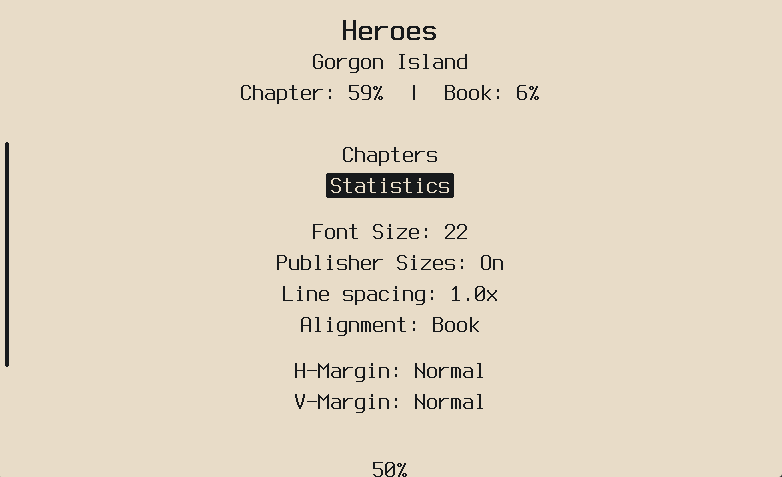
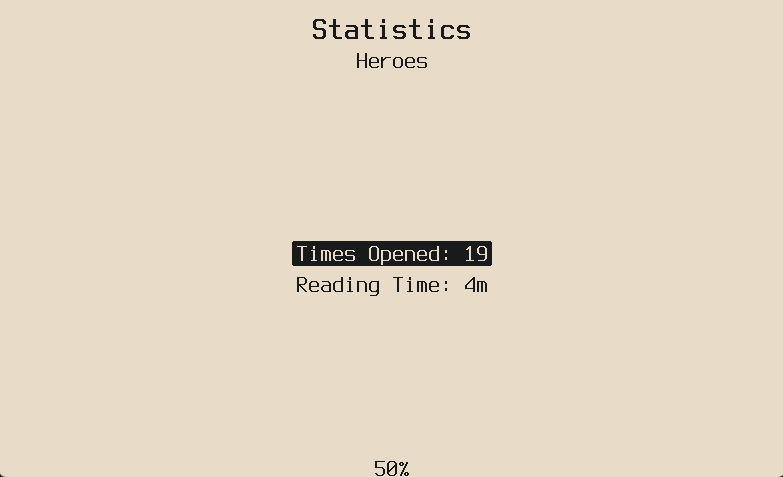
updated read me

diff --git a/README.md b/README.md
@@ -1,47 +1,43 @@
 # Nous
 
-A focused EPUB reader firmware for the Xteink X4 e-ink device — built for people who just want to read.
+Nous is my personal fork of [microreader](https://github.com/CidVonHighwind/microreader/) by [CidVonHighwind](https://github.com/CidVonHighwind) — an open-source EPUB reader firmware for the Xteink X4 e-ink device.
 
-Nous is a personal fork of [microreader](https://github.com/CidVonHighwind/microreader/) by [CidVonHighwind](https://github.com/CidVonHighwind), extended with quality-of-life features that felt missing. The core philosophy stays the same: no Wi-Fi, no sync, no bloat. Only books.
+microreader is great at what it does. This fork adds the things I personally wanted on top of it, without changing what makes it good.
 
 > **v1.0.1** · Based on microreader 2.0-dev · GPL v2
 
 ---
 
-## Features
-
-Everything from microreader, plus:
+## What Nous adds
 
 | Feature | Description |
 |---|---|
-| **Convert All** | Batch-convert every un-converted EPUB in one go from Settings — with per-book progress so you know where it's at |
-| **Converted Indicator** | Optional `*` prefix on book titles that are already converted and ready for instant open |
-| **Reading Stats** | See how many times you've opened a book and how long you've spent reading it — accessible from Reader Options |
-| **Battery Display** | Show battery as an icon, a percentage, or both |
-| **List Alignment** | Set book list and menu alignment to left, center, or right — saved across reboots |
-| **Hide Nav Arrows** | Clean up the UI by hiding the button hint glyphs |
-| **Hidden Books** | Place EPUBs in a `.hidden/` folder at the SD card root — they won't appear in the book list, recents, or auto-reopen on boot. Long-press Back (~3s) on the book list to access them |
-| **Auto-Sleep** | Settings → Auto Sleep. Cycles through 1 / 3 / 5 / 10 / 20 / 30 min / Off. Default: 10 min |
+| **Convert All** | Batch-convert your whole library from Settings — shows per-book progress as it goes |
+| **Converted Indicator** | Optional `*` prefix on book titles that are already converted and ready to open instantly |
+| **Reading Stats** | Per-book open count and total reading time, viewable from Reader Options. Updates live while you're reading |
+| **Battery Display** | Icon, percentage, or both — your call |
+| **List Alignment** | Left, center, or right alignment for the book list and menus |
+| **Hide Nav Arrows** | Toggle the button hint glyphs off if you don't need them |
+| **Hidden Books** | Drop EPUBs into a `.hidden/` folder on the SD card and they won't show up anywhere — not in the list, not in recents, won't reopen on boot. Long-press Back (~3s) on the book list to access them |
+| **Auto-Sleep** | Settings → Auto Sleep. Options: 1 / 3 / 5 / 10 / 20 / 30 min / Off. Defaults to 10 min |
 
-**Features**
+**Screenshots**
 
-| Alignment | Convert All | Stats |
+| Main Menu | Converter | Stats |
 |---|---|---|
-| ![Alignment](images/allign.png) | ![Convert All](images/convertall.png) | ![Stats](images/stats.png) |
+| ![Main Menu](images/mainmenu.png) | ![Converter](images/converter.png) | ![Stats](images/stats.png) |
 
-| Auto Sleep | Hidden Books | Reading Options |
+| Auto Sleep | Hidden Books | Sleep & Align |
 |---|---|---|
-| ![Auto Sleep](images/autosleep.png) | ![Hidden Books](images/hidden.png) | ![Reading Options](images/reading%20options.png) |
+| ![Auto Sleep](images/autosleep.png) | ![Hidden Books](images/hidden.png) | ![Sleep Align](images/sleepalign.png) |
 
-**UI**
-
-| Main Menu | Reader | Chapters |
+| Reader | Main Menu (Portrait) | Reader (Portrait) |
 |---|---|---|
-| ![Main Menu](images/main%20menu.png) | ![Reader](images/reader.png) | ![Chapters](images/chapters.png) |
+| ![Reader](images/reader.png) | ![Main Menu Portrait](images/mainmenuportrait.png) | ![Reader Portrait](images/readerportrait.png) |
 
-| Reader (Landscape) | Settings |
-|---|---|
-| ![Reader Landscape](images/reader%20rotated.png) | ![Settings](images/settings.png) |
+| Settings |
+|---|
+| ![Settings](images/settingsportrait.png) |
 
 ---
 
@@ -50,17 +46,17 @@ Everything from microreader, plus:
 > [!WARNING]
 > **Requires an unlocked Xteink X4.** Do not flash on a locked device.
 
-Grab the latest `.bin` from the [Releases](../../releases) page.
+Download the latest `.bin` from the [Releases](../../releases) page.
 
-Flash with the [Crosspoint flash tool](https://crosspointreader.com/#flash-tools) (browser-based, nothing to install), or via esptool:
+Flash using the [Crosspoint flash tool](https://crosspointreader.com/#flash-tools) (browser-based, nothing to install), or with esptool:
 
 ```powershell
 python -m esptool --chip esp32c3 --port COM5 --baud 921600 write_flash 0x0 nous.bin
 ```
 
-Replace `COM5` with your actual port. Hold BOOT while connecting if the device doesn't enter flash mode on its own.
+Replace `COM5` with your actual port. Hold BOOT while connecting if the device doesn't enter flash mode automatically.
 
-**Before flashing anything**, back up your current firmware:
+Before you flash anything, back up your existing firmware:
 
 ```powershell
 python -m esptool --chip esp32c3 --port COM5 read_flash 0x0 0x1000000 firmware_backup.bin
@@ -70,7 +66,7 @@ python -m esptool --chip esp32c3 --port COM5 read_flash 0x0 0x1000000 firmware_b
 
 ## Hidden Books
 
-Place EPUBs in a `.hidden/` folder at the root of your SD card:
+Create a `.hidden/` folder at the root of your SD card and put EPUBs in there:
 
 ```
 SD card root/
@@ -78,7 +74,16 @@ SD card root/
     └── mybook.epub
 ```
 
-From the book list, long-press the Back button (~3 seconds) and release to open the hidden shelf. Hidden books don't appear in recents and won't reopen automatically on boot.
+They won't show in the book list, won't appear in recents, and the device won't reopen them on boot. To get to them, long-press Back (~3 seconds) from the book list.
+
+---
+
+## Changelog
+
+### v1.0.1
+- **Hidden Books** — `.hidden/` folder at SD card root; long-press Back on the book list to access
+- **Auto-Sleep Timeout** — Settings → Auto Sleep; cycles through 1 / 3 / 5 / 10 / 20 / 30 min / Off; default 10 min
+- **Fix** — Reading time in Stats now updates live while reading, not only after you close the book
 
 ---
 
@@ -86,17 +91,17 @@ From the book list, long-press the Back button (~3 seconds) and release to open 
 
 ### ESP32 Firmware
 
-Requires [PlatformIO](https://platformio.org/). Open in VS Code and click **Build**, or:
+Requires [PlatformIO](https://platformio.org/). Open in VS Code and hit Build, or from the terminal:
 
 ```powershell
 pio run
 ```
 
-Output: `.pio\build\esp32c3\firmware.bin`
+Output goes to `.pio\build\esp32c3\firmware.bin`.
 
 ### Desktop Emulator
 
-Runs the full UI in an SDL2 window — no device needed. Drop `.epub` files in `sd/`.
+Runs the full UI in an SDL2 window, no device needed. Drop `.epub` files into `sd/` and it treats that as the SD card.
 
 Requires CMake, Ninja, MinGW, and SDL2.
 
@@ -110,11 +115,9 @@ cmake --build build/desktop-debug --config Debug
 
 ## Managing Content
 
-Books (`.epub`) go anywhere on the SD card — scanned recursively from the root. Fonts (`.mfb`) go in `fonts/`. Sleep images go in `.sleep/`.
+EPUBs go anywhere on the SD card — the device scans recursively from the root. Fonts (`.mfb`) go in `fonts/`. Sleep images go in `.sleep/`.
 
-Copy directly to the SD card, or transfer over USB using the [microreader browser manager](https://cidvonhighwind.github.io/microreader/) (Chrome/Edge/Firefox, Web Serial API) — it works with Nous too.
-
-The [Calibre plugin](tools/calibre-plugin/) from the original microreader also works unchanged.
+You can copy files directly to the SD card or transfer over USB. The [microreader browser manager](https://cidvonhighwind.github.io/microreader/) works with Nous, as does the Calibre plugin from the original project.
 
 ---
 
@@ -127,7 +130,7 @@ python -m esptool --chip esp32c3 --port COM5 read_flash 0x0 0x1000000 firmware_b
 # Restore
 python -m esptool --chip esp32c3 --port COM5 write_flash 0x0 firmware_backup.bin
 
-# Switch boot partition if device boots old firmware after flash
+# If the device boots old firmware after flashing
 python tools/switch_partition.py app0 --port COM5 --flash
 ```
 
@@ -150,10 +153,10 @@ tools/               Python scripts and dev tools
 
 ## Credits
 
-Nous is built on [microreader](https://github.com/CidVonHighwind/microreader/) by [CidVonHighwind](https://github.com/CidVonHighwind). The foundation, the architecture, the MRB conversion system, the rendering engine — all his work. This fork exists because of how well the original was built.
+Everything that makes this work — the architecture, the MRB conversion system, the rendering engine, the whole foundation — is [CidVonHighwind's](https://github.com/CidVonHighwind) work. I built on top of it because it was worth building on.
 
 ## License
 
 GPL v2 — see [LICENSE](LICENSE).
 
-This project is a fork of microreader and inherits its GPL v2 license. All additions and modifications are released under the same terms.
+Fork of [microreader](https://github.com/CidVonHighwind/microreader/), inheriting its GPL v2 license. All additions in this fork are under the same terms.